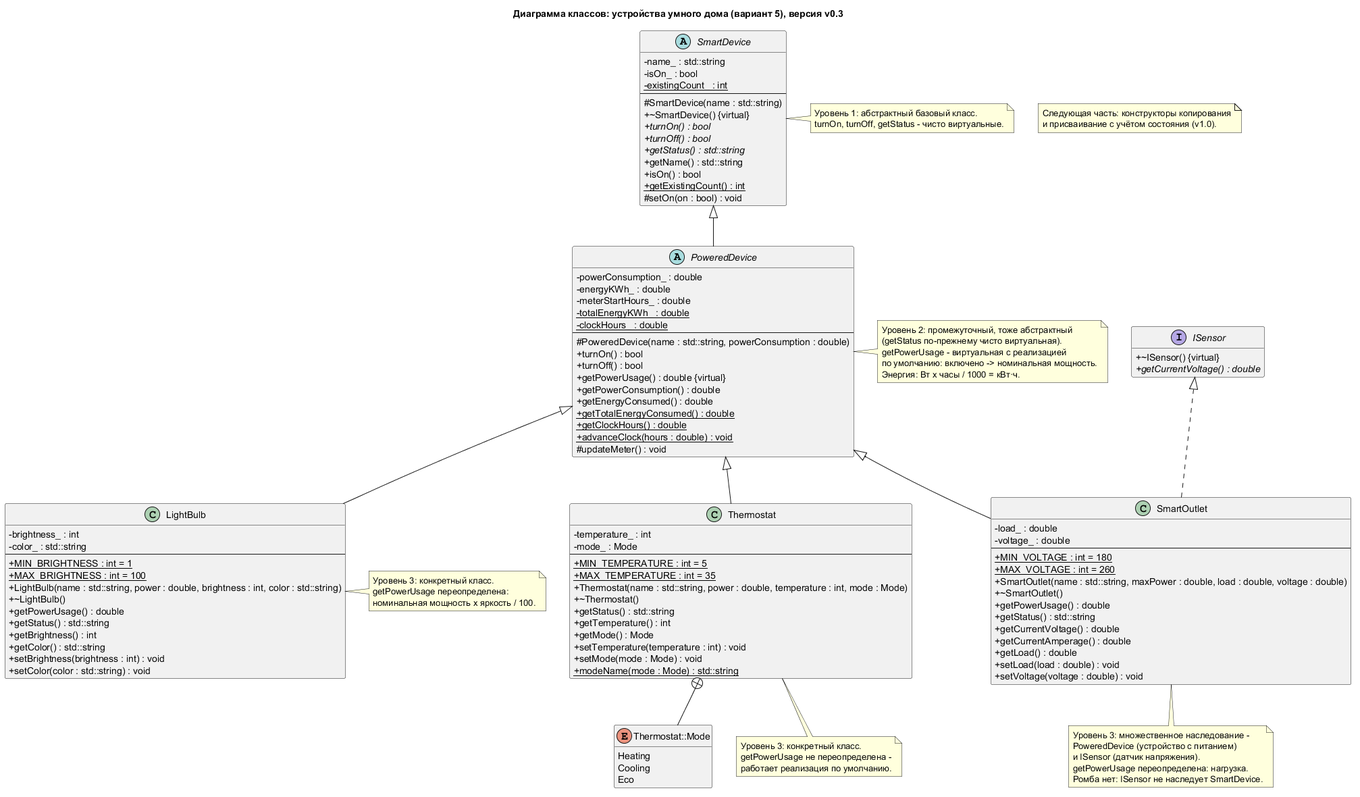
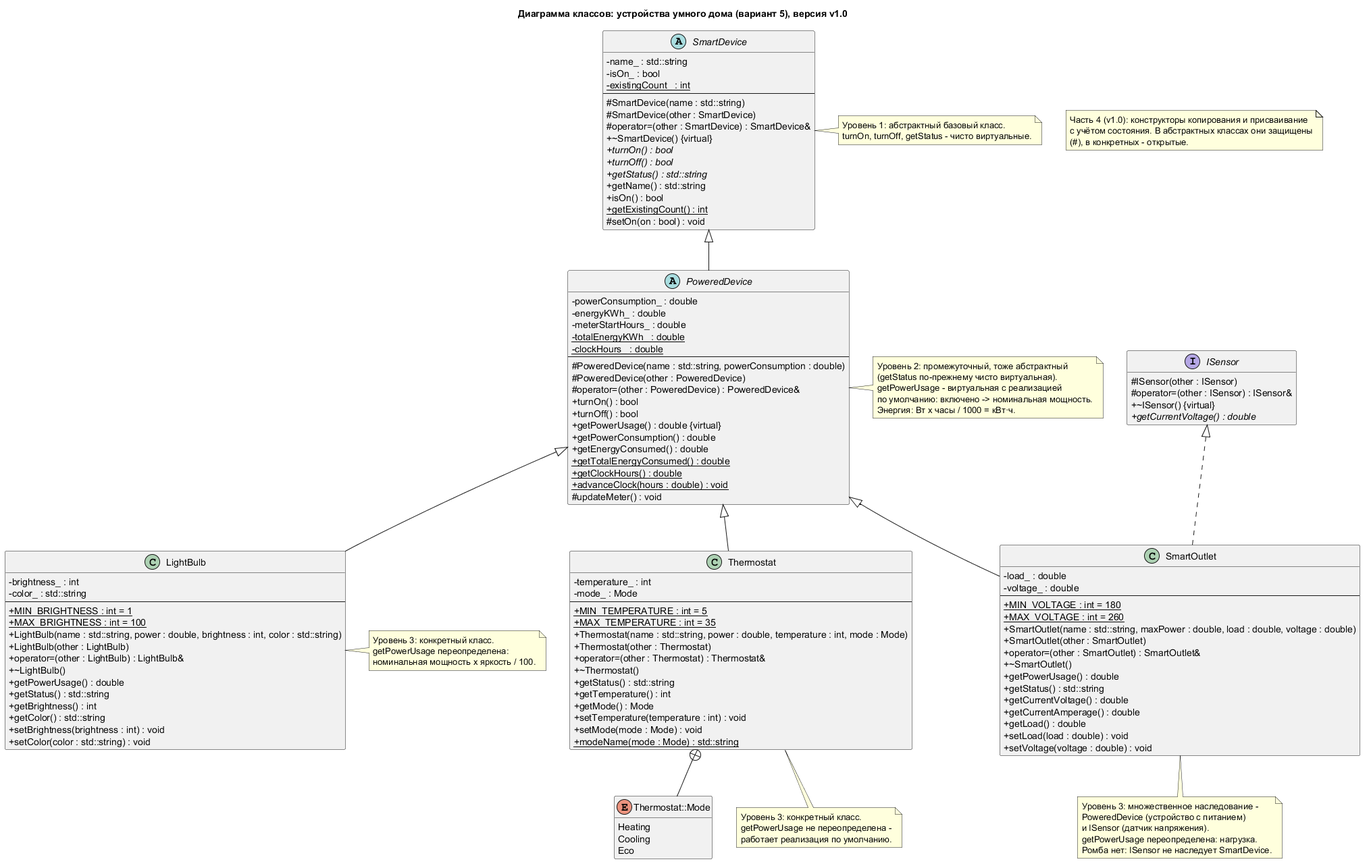
Документация: страница части 4 и диаграмма с копированием
Страница pages/part4.md: правила копирования с учётом состояния, защищённое копирование в абстрактных классах, копирование при множественном наследовании, порядок действий в присваивании, самоприсваивание, пример работы. Диаграмма дополнена конструкторами копирования и присваиванием. Раздел о запрете копирования на странице части 1 приведён в соответствие с v1.0; в ISensor.h дописан @return.

diff --git a/include/ISensor.h b/include/ISensor.h
@@ -35,7 +35,11 @@ protected:
      */
     ISensor(const ISensor&) = default;
 
-    /// Присваивание интерфейса: полей нет, ничего не копируется (см. конструктор копирования).
+    /**
+     * @brief Присваивание интерфейса: полей нет, ничего не копируется.
+     * @details См. конструктор копирования: защищено по той же причине.
+     * @return Ссылка на этот объект.
+     */
     ISensor& operator=(const ISensor&) = default;
 
 public:

diff --git a/pages/part4.md b/pages/part4.md
@@ -1,0 +1,179 @@
+# Часть 4. Копирование и присваивание с учётом состояния {#part4}
+
+[TOC]
+
+Вариант 5 — «Устройства умного дома». Версия v1.0: конструкторы копирования и операторы присваивания
+для всех устройств. Это последняя часть лабораторной работы. Условие задания и деление работы на
+части — на странице @ref part1.
+
+## Что требуется в этой части
+
+Из условия варианта 5:
+
+- конструктор копирования и присваивание — с учётом состояния (вкл/выкл) и параметров;
+- в тестах — массив устройств, включение и выключение, проверка статистики.
+
+Из общих требований: корректные конструктор копирования и оператор присваивания; в тестах —
+копирование и присваивание (независимость копий).
+
+## Что значит «с учётом состояния»
+
+Копирование «по умолчанию» (то, что делает компилятор, если ничего не написать) переписало бы все поля
+подряд, и у устройства возникли бы три ошибки:
+
+| Что скопировал бы компилятор | Чем это плохо |
+|------------------------------|---------------|
+| поля устройства, но не счётчик `existingCount_` | копия не попала бы в счётчик существующих устройств, а её деструктор его уменьшил бы — счётчик ушёл бы в минус |
+| накопленную энергию и час начала учёта | одна и та же энергия числилась бы у оригинала и у копии; сумма по устройствам больше общего счётчика |
+| имя | два устройства с одним именем |
+
+Поэтому копирование написано вручную. Правила, которые выбраны и проверены тестами:
+
+| Что | Конструктор копирования | Присваивание `a = b` |
+|-----|-------------------------|----------------------|
+| Параметры (мощность, яркость, цвет, температура, режим, нагрузка, напряжение) | копируются | копируются |
+| Состояние «включено/выключено» | копируется | копируется |
+| Имя | `имя + « (копия)»` | остаётся своим |
+| Накопленная энергия устройства | у копии 0 кВт·ч | остаётся своей |
+| Счётчик устройств | увеличивается | не меняется |
+| Учёт энергии | если копия включена, учёт начинается с текущего часа | прошлое засчитывается по **старым** параметрам, затем новый интервал с текущего часа |
+
+Копия — новое устройство, поэтому начинает со своих 0 кВт·ч. Присваивание не создаёт и не уничтожает
+устройство: оно остаётся тем же (своё имя и история), но получает чужие параметры.
+
+## Иерархия (v1.0)
+
+![Диаграмма классов, версия v1.0](uml/SmartHome.png)
+
+Копирование есть в каждом классе иерархии, но с разной видимостью:
+
+| Класс | Конструктор копирования и присваивание | Что копирует сам |
+|-------|----------------------------------------|------------------|
+| SmartDevice | защищённые (`protected`) | состояние; увеличивает счётчик; имя с пометкой |
+| PoweredDevice | защищённые | мощность; не копирует энергию |
+| ISensor | защищённые, `= default` | ничего: полей нет |
+| LightBulb, Thermostat, SmartOutlet | **открытые** | свои параметры + вызов копирования базовых частей |
+
+Зачем `protected` в абстрактных классах: объекты SmartDevice и PoweredDevice не существуют сами по
+себе, а присваивание через ссылку на базовый класс скопировало бы только часть объекта (**срезка**):
+`SmartDevice& a = lamp; SmartDevice& b = thermostat; a = b;` — лампа получила бы «чужое» состояние, а
+параметры остались бы прежними. С `protected` так написать нельзя: копировать можно только конкретные
+объекты одного класса.
+
+## Конструктор копирования в иерархии
+
+```cpp
+// LightBulb
+LightBulb::LightBulb(const LightBulb& other)
+    : PoweredDevice(other), brightness_(other.brightness_), color_(other.color_) {}
+
+// PoweredDevice
+PoweredDevice::PoweredDevice(const PoweredDevice& other)
+    : SmartDevice(other), powerConsumption_(other.powerConsumption_),
+      energyKWh_(0.0), meterStartHours_(clockHours_) {}
+
+// SmartDevice
+SmartDevice::SmartDevice(const SmartDevice& other)
+    : name_(other.name_ + " (копия)"), isOn_(other.isOn_) { ++existingCount_; }
+```
+
+Каждый уровень копирует **свои** поля и в списке инициализации вызывает копирование базового класса
+(`PoweredDevice(other)` — лампа передаётся как её часть PoweredDevice). Если базовую часть не
+упомянуть, компилятор построит её конструктором по умолчанию — и компиляция остановится, потому что у
+SmartDevice такого конструктора нет.
+
+**Множественное наследование.** У розетки две базовые части, поэтому в списке инициализации
+вызываются обе:
+
+```cpp
+SmartOutlet::SmartOutlet(const SmartOutlet& other)
+    : PoweredDevice(other), ISensor(other), load_(other.load_), voltage_(other.voltage_) {}
+```
+
+## Присваивание и порядок действий
+
+```cpp
+LightBulb& LightBulb::operator=(const LightBulb& other)
+{
+    if (this != &other)                       // самоприсваивание: a = a ничего не делает
+    {
+        PoweredDevice::operator=(other);      // 1) прошлое засчитывается по СТАРЫМ параметрам
+        brightness_ = other.brightness_;      // 2) только потом свои поля меняются
+        color_ = other.color_;
+    }
+    return *this;                             // возвращает ссылку: работает a = b = c
+}
+```
+
+Порядок важен. В `PoweredDevice::operator=` первым вызывается `updateMeter()`, а он берёт мощность
+через виртуальную `getPowerUsage()` — у лампы она зависит от яркости. Яркость пока старая, потому что
+лампа меняет свои поля **после** вызова базового присваивания. Если бы порядок был обратным, прошлые
+часы работы посчитались бы по новой яркости. Пример теста: лампа 100 Вт работала 2 часа и получила
+параметры лампы 40 Вт × 25 %; ей засчитано ровно 0,200 кВт·ч (100 Вт × 2 ч), а не 0,020.
+
+Четыре сочетания состояний, которые проверены отдельно: «включена ← выключена» (приёмник выключается,
+прошлое засчитано), «выключена ← включена» (приёмник включается, учёт с этого момента), «включена ←
+включена» (мощность сменилась на ходу), «выключена ← выключена».
+
+## Проверка самоприсваивания
+
+Проверка `this != &other` защищает от `a = a`. Без неё `PoweredDevice::operator=` всё равно ничего бы не
+испортил, но для классов с динамической памятью (`delete` старого перед копированием) самоприсваивание
+без проверки разрушило бы данные. В программе правило применяется единообразно ко всем классам.
+
+## Динамические ресурсы
+
+В классах устройств нет `new`/`delete`: все поля — числа и `std::string`, который копируется сам и
+глубоко. Поэтому «глубокое копирование» здесь — это копирование строки `color_` и имени; разделяемых
+указателей между копиями нет, и изменение копии не затрагивает оригинал (тест 8).
+
+## Защита от ошибок
+
+Копирование не может нарушить инварианты: параметры берутся из объекта, уже прошедшего проверку.
+Для розетки нагрузка не больше номинальной мощности сохраняется, потому что копируются обе
+величины вместе (проверено). Исключений копирование не бросает.
+
+**Проверка.** Тесты программы — 74 проверки из 74 (в версии v0.3 было 52). Отдельная тестовая программа
+части 4 — 31 проверка из 31: типы (конкретные классы копируются, абстрактные базы и интерфейс снаружи — нет);
+счётчик устройств при копировании, присваивании и уничтожении копии; пометка в имени; энергия копии
+и общий счётчик; четыре сочетания состояний при присваивании; самоприсваивание и цепочка
+`(a = b) = c`; термостат и розетка; удаление включённой копии через `SmartDevice*`. Тестовые программы
+частей 1–3 (16 из 16, 20 из 20, 22 из 22) проходят: в них заменены только проверки «копирование
+запрещено» на «копирование разрешено».
+
+## Пример работы программы (v1.0)
+
+```
+==================== Тест 8. Копирование и присваивание ====================
+LightBulb original("Кухня", 60.0, 80, "тёплый белый");
+LightBulb copy(original);
+  Лампа «Кухня (копия)»: выключена, яркость 80 %, цвет «тёплый белый», мощность сейчас 0.0 Вт из 60.0 Вт, засчитано 0.000 кВт·ч
+  [OK]     копия: те же мощность, яркость и цвет, состояние «выключена»
+  [OK]     имя копии — «Кухня (копия)»: копия отличается от оригинала
+  [OK]     копия учтена в счётчике устройств: стало на 2 больше
+copy.setBrightness(20);  copy.setColor("синий");
+  [OK]     независимость: оригинал не изменился (яркость 80 %, цвет «тёплый белый»)
+...
+Thermostat twin(heater);   // копия включённого термостата
+  Термостат «Спальня (копия)»: включён, режим «обогрев», температура 22 °C, мощность сейчас 1500.0 Вт из 1500.0 Вт, засчитано 0.000 кВт·ч
+  [OK]     копия включённого термостата тоже включена, температура и режим те же
+  [OK]     энергия оригинала копии не передана: у копии 0 кВт·ч, общий счётчик при копировании не изменился
+PoweredDevice::advanceClock(1.0);   // модельное время: 22.5 ч
+  [OK]     через час: оригинал 1500 Вт × 3 ч = 4.500 кВт·ч, копия — только свой час: 1.500 кВт·ч
+  [OK]     сумма по двум устройствам равна приросту общего счётчика (6.000 кВт·ч)
+
+LightBulb lamp("Стол", 100.0, 100, "белый");   lamp.turnOn();   // 2 часа на 100 Вт
+LightBulb dim("Ночник", 40.0, 25, "жёлтый");   // выключен
+lamp = dim;
+  Лампа «Стол»: выключена, яркость 25 %, цвет «жёлтый», мощность сейчас 0.0 Вт из 40.0 Вт, засчитано 0.200 кВт·ч
+  [OK]     после присваивания параметры как у «Ночника»: 40 Вт, 25 %, «жёлтый», лампа выключена
+  [OK]     имя осталось своим — «Стол», а не «Ночник»
+  [OK]     энергия до присваивания засчитана по СТАРЫМ параметрам: 100 Вт × 2 ч = 0.200 кВт·ч
+...
+
+==================== Итог ====================
+Проверок пройдено: 74 из 74
+Устройств сейчас: 0
+Модельное время: 27.5 ч
+Всего засчитано энергии: 16.160 кВт·ч
+```

diff --git a/pages/part1.md b/pages/part1.md
@@ -46,7 +46,7 @@ LightBulb, Thermostat, а также составное устройство Sma
 
 ## Иерархия (v0.1)
 
-![Диаграмма классов (текущая версия; в v0.1 в ней не было Thermostat, ISensor и SmartOutlet)](uml/SmartHome.png)
+![Диаграмма классов (текущая версия; в этой части она была короче)](uml/SmartHome.png)
 
 | Класс | Уровень | Что добавляет |
 |-------|---------|---------------|
@@ -129,11 +129,9 @@ delete device;   // вызываются ~LightBulb, ~PoweredDevice, ~SmartDevic
 является лампой, и вызывается версия лампы. В деструкторе PoweredDevice так сделать нельзя: часть
 «лампа» к тому моменту уже уничтожена, и вызвалась бы реализация по умолчанию с неверной мощностью.
 
-## Копирование до части 4
+## Копирование в версии v0.1
 
-Конструктор копирования и присваивание в SmartDevice пока объявлены `= delete`. Копирование
-«по умолчанию» скопировало бы и час начала учёта, и энергия включённого устройства засчиталась бы
-дважды — у оригинала и у копии. Правильное копирование с учётом состояния — в части 4 (v1.0).
+В версии v0.1 конструктор копирования и присваивание в SmartDevice были объявлены `= delete`: копирование `по умолчанию` скопировало бы и час начала учёта, и энергия включённого устройства засчиталась бы дважды — у оригинала и у копии. Правильное копирование с учётом состояния выполнено в части 4 (v1.0), см. @ref part4.
 
 ## Защита от ошибок
 
@@ -149,7 +147,7 @@ delete device;   // вызываются ~LightBulb, ~PoweredDevice, ~SmartDevic
 
 **Проверка.** Тесты программы — 27 проверок из 27. Отдельная тестовая программа — 16 проверок из 16:
 свойства типов (SmartDevice и PoweredDevice абстрактные, LightBulb — нет, деструктор виртуальный,
-копирование запрещено), дробные интервалы времени, смена яркости у выключенной лампы, многократная
+копирование в этой версии запрещено), дробные интервалы времени, смена яркости у выключенной лампы, многократная
 смена яркости, энергия при уничтожении включённой лампы, удаление через указатель на PoweredDevice,
 исключение в конструкторе.
 

diff --git a/pages/part2.md b/pages/part2.md
@@ -18,7 +18,7 @@
 
 ## Иерархия (v0.2)
 
-![Диаграмма классов (текущая версия; в v0.2 в ней не было ISensor и SmartOutlet)](uml/SmartHome.png)
+![Диаграмма классов (текущая версия; в этой части она была короче)](uml/SmartHome.png)
 
 | Класс | Уровень | Что добавляет |
 |-------|---------|---------------|
